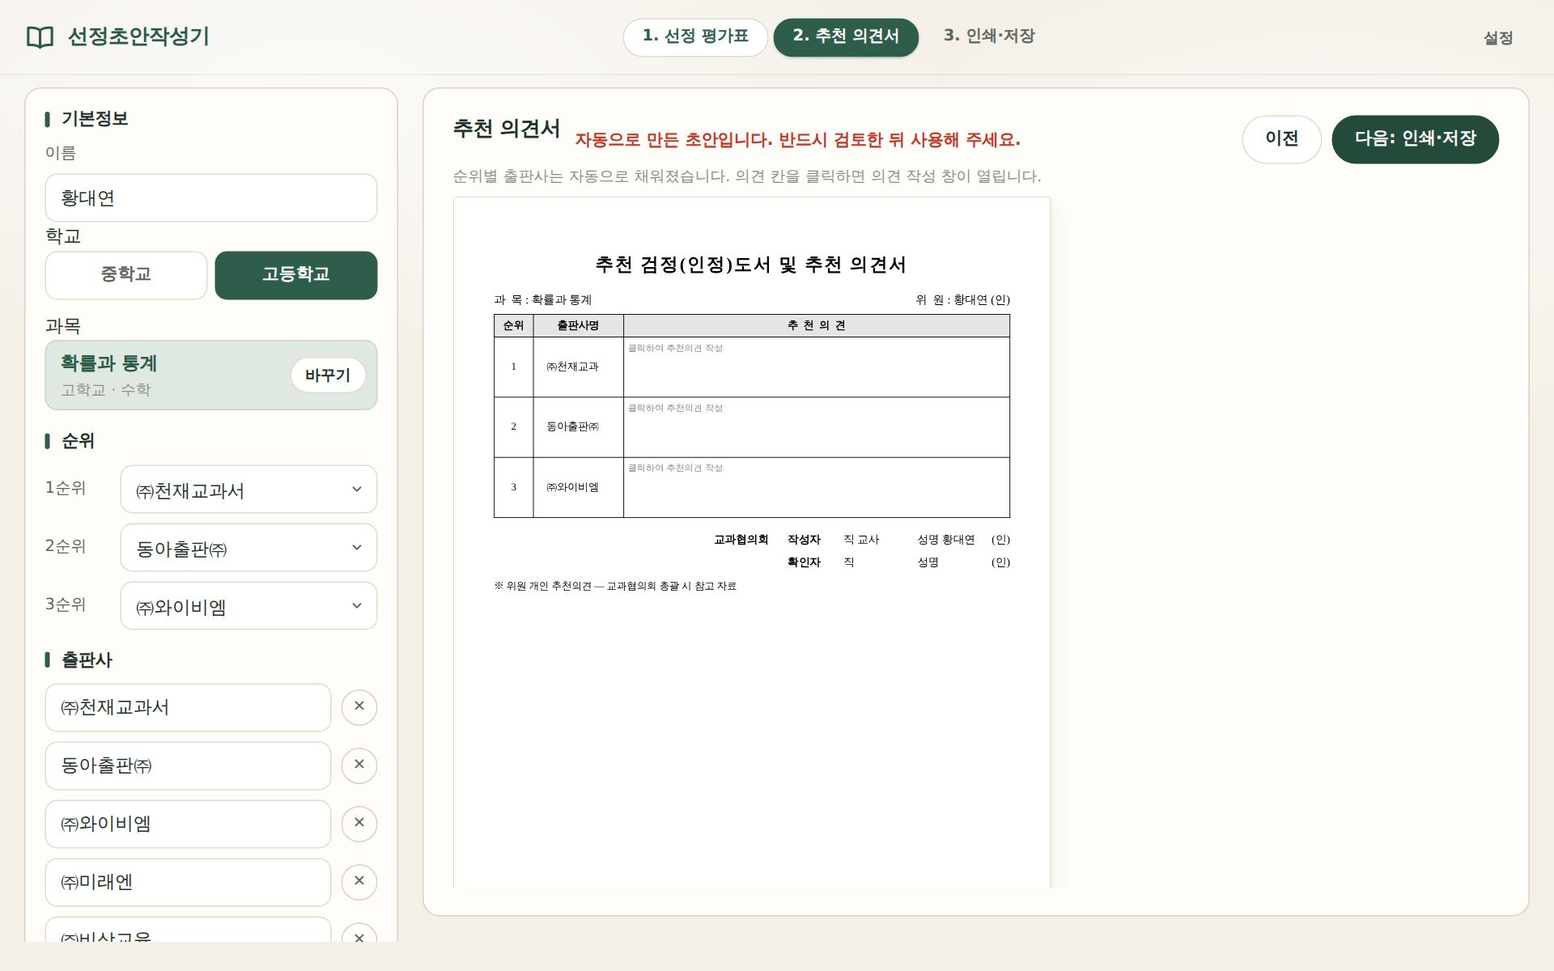
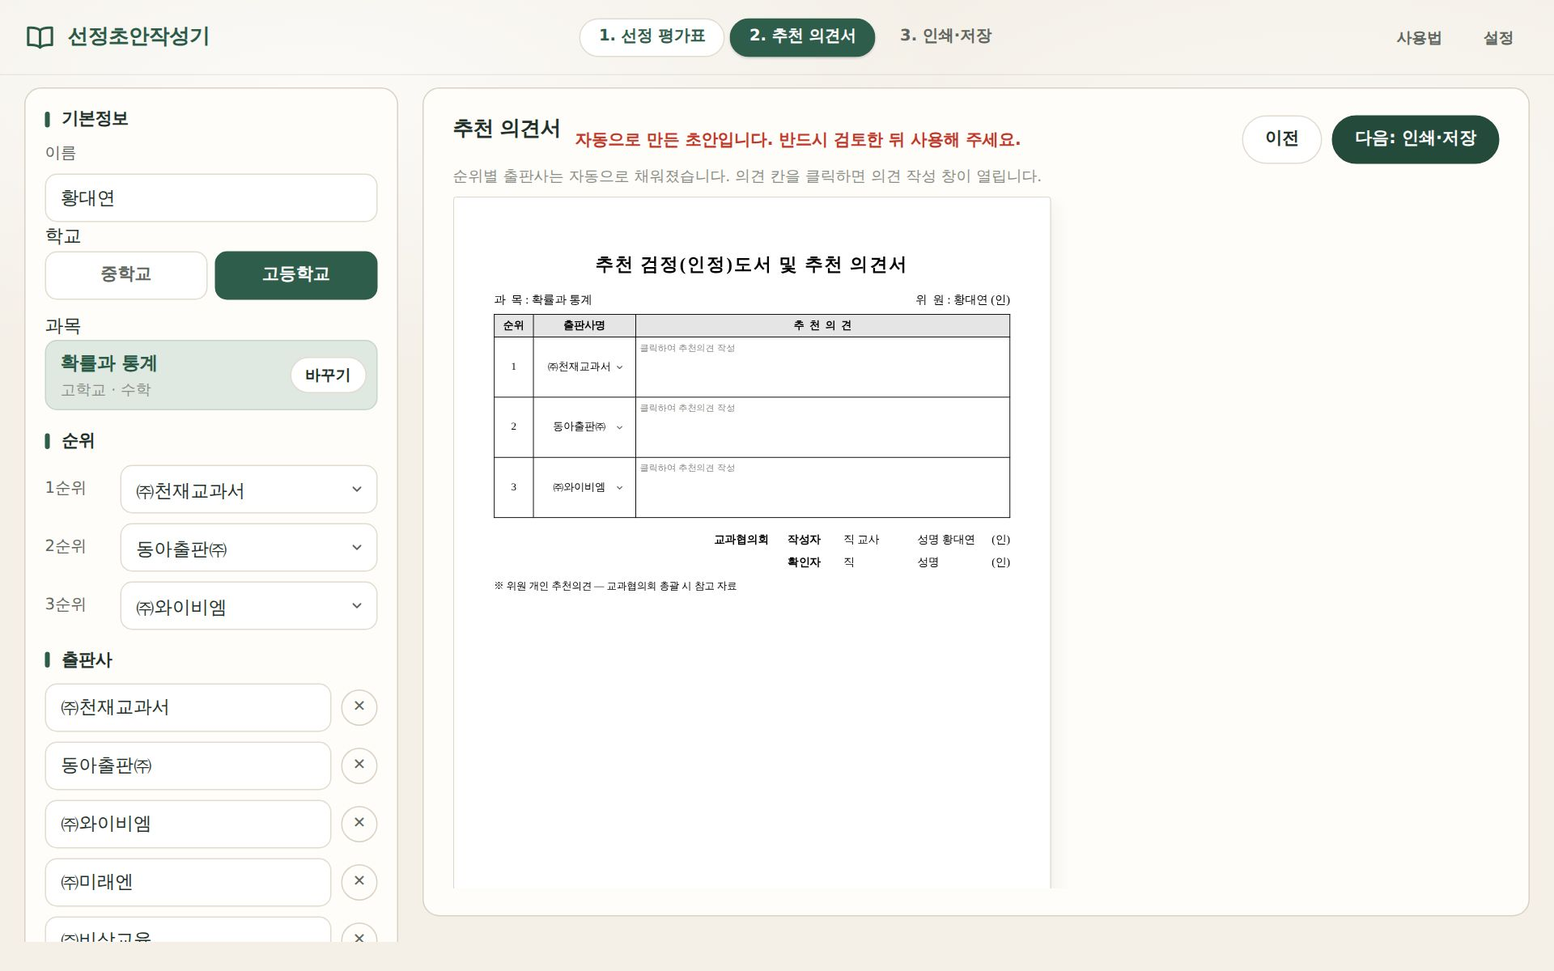
인쇄 단추 하나로 두 서식 저장 · 출판사명 잘림 수정 · 단추 색 구분
1. 서식3 출판사명이 인쇄에서 잘리던 문제
   고르는 칸(select)은 이름이 길어도 줄바꿈이 되지 않아 '㈔한국교과서협회(전북교육청)'
   같은 이름이 잘려 인쇄됐다. 인쇄에는 고르는 칸 대신 글자를 내보내고,
   서식 칸 전체에 overflow-wrap 을 두어 긴 이름이 칸 안에서 줄바꿈되게 했다.
   출판사명 열도 120 → 136px 로 넓혔다.

2. [평가표 인쇄]·[추천 의견서 인쇄] 두 단추를 [인쇄 · PDF 저장] 하나로 합쳤다.
   누르면 인쇄 창이 두 번 열려(앞 창을 닫으면 다음 창) 평가표와 의견서를
   여전히 각각 저장한다. 총괄표 화면도 같다.

3. 인쇄 단추에 프린터 아이콘을 넣었다.

4. 의견 창의 [의견 생성]을 다른 색 계열(갈금색)로 바꿔 [적용]과 구분했다.

사용법 캐러셀의 인쇄 안내와 화면 사진도 새 흐름에 맞춰 다시 만들었다.

Claude-Session: https://claude.ai/code/session_01RCs1Brw9A4HvY1UdBXHbwC

diff --git a/src/pages/Personal.tsx b/src/pages/Personal.tsx
@@ -5,13 +5,14 @@ import { fmtDate, useAppData } from '../store/useAppData'
 import { lsGet, lsSet } from '../store/storage'
 import { buildDraftScores, checkScoreEdit, criteriaFor, publishersFor } from '../lib/scoring'
 import { downloadText, readFileText } from '../lib/csv'
-import { printSheets } from '../lib/print'
+import { printSheetsInTurn } from '../lib/print'
 import { SubjectSearch } from '../components/SubjectSearch'
 import { Form1Sheet } from '../components/Form1Sheet'
 import { Form3Sheet } from '../components/Form3Sheet'
 import { OpinionModal } from '../components/OpinionModal'
 import { HeaderSlot } from '../components/HeaderSlot'
 import { SheetFit } from '../components/SheetFit'
+import { PrinterIcon } from '../components/Icons'
 import { NoticeModal } from '../components/NoticeModal'
 
 const STEPS = ['선정 평가표', '추천 의견서', '인쇄·저장']
@@ -239,21 +240,24 @@ export function Personal({ go }: { go: (h: string) => void }) {
    * 인쇄 전에 책임·검토를 한 번 짚어 준다.
    * 평가표와 추천 의견서는 따로 저장한다 — 총괄 선생님이 위원들의 평가표만 모아 올리기 쉽도록.
    */
-  const askPrint = (kind: 'form1' | 'form3') => {
+  const askPrint = () => {
     if (!ev) return
-    const what = kind === 'form1' ? '선정 평가표' : '추천 의견서'
     setNotice({
-      title: `${what}를 인쇄하기 전에 확인해 주세요`,
+      title: '인쇄하기 전에 확인해 주세요',
       tone: 'info',
       lines: [
         '이 서류의 최종 책임은 작성자 본인에게 있습니다.',
         '자동으로 만든 초안입니다. 점수와 문장이 실제 검토 결과와 맞는지 반드시 확인하고 고친 뒤 제출해 주세요.',
         '이름 · 과목 · 출판사 · 순위가 맞는지 다시 한 번 살펴 주세요.',
+        '인쇄 창이 두 번 열립니다. 먼저 선정 평가표(가로 1쪽), 이어서 추천 의견서(세로 1쪽)를 각각 저장해 주세요.',
       ],
       confirmLabel: '확인했습니다, 인쇄',
       onConfirm: () => {
         setNotice(null)
-        printSheets(`.form-sheet.${kind}`, `${what}_${ev.subjectName}_${ev.teacherName}`)
+        void printSheetsInTurn([
+          { selector: '.form-sheet.form1', title: `선정 평가표_${ev.subjectName}_${ev.teacherName}` },
+          { selector: '.form-sheet.form3', title: `추천 의견서_${ev.subjectName}_${ev.teacherName}` },
+        ])
       },
     })
   }
@@ -529,18 +533,15 @@ export function Personal({ go }: { go: (h: string) => void }) {
                   <button className="btn" onClick={() => setStep(1)}>
                     이전
                   </button>
-                  <button className="btn primary" onClick={() => askPrint('form1')}>
-                    평가표 인쇄·PDF
-                  </button>
-                  <button className="btn primary" onClick={() => askPrint('form3')}>
-                    추천 의견서 인쇄·PDF
+                  <button className="btn primary" onClick={askPrint}>
+                    <PrinterIcon /> 인쇄 · PDF 저장
                   </button>
                   <button className="btn" onClick={exportJson}>
                     JSON 내보내기
                   </button>
                 </div>
               </div>
-              <p className="muted small">여기서도 점수 칸과 의견 칸을 바로 고칠 수 있습니다. 평가표(가로)와 추천 의견서(세로)는 각각 저장합니다 — 인쇄 창에서 대상을 'PDF로 저장'으로 고르면 총괄 선생님께 보낼 파일이 됩니다.</p>
+              <p className="muted small">여기서도 점수 칸과 의견 칸을 바로 고칠 수 있습니다. [인쇄 · PDF 저장]을 누르면 인쇄 창이 두 번 열려 <b>선정 평가표(가로 1쪽)</b>와 <b>추천 의견서(세로 1쪽)</b>를 각각 저장합니다 — 인쇄 창에서 대상을 'PDF로 저장'으로 고르면 총괄 선생님께 보낼 파일이 됩니다.</p>
               <div className="sheet-wrap">
                 <SheetFit fitHeight={false} minScale={0.5}>
                 <Form1Sheet

diff --git a/src/pages/Compile.tsx b/src/pages/Compile.tsx
@@ -5,7 +5,7 @@ import { fmtDate, useAppData } from '../store/useAppData'
 import { lsGet, lsSet } from '../store/storage'
 import { columnTotal, computeSummary, criteriaFor } from '../lib/scoring'
 import { downloadText, readFileText } from '../lib/csv'
-import { printSheets } from '../lib/print'
+import { printSheetsInTurn } from '../lib/print'
 import { importMemberFiles, squeezeName, type ImportProgress } from '../lib/pdfImport'
 import { SubjectSearch } from '../components/SubjectSearch'
 import { Form1Sheet } from '../components/Form1Sheet'
@@ -14,6 +14,7 @@ import { Form3Sheet } from '../components/Form3Sheet'
 import { OpinionModal } from '../components/OpinionModal'
 import { HeaderSlot } from '../components/HeaderSlot'
 import { SheetFit } from '../components/SheetFit'
+import { PrinterIcon } from '../components/Icons'
 import { NoticeModal } from '../components/NoticeModal'
 
 const STEPS = ['점수표 올리기', '총괄표 확인', '인쇄·저장']
@@ -103,22 +104,25 @@ export function Compile({ go }: { go: (h: string) => void }) {
     })
   }
 
-  /** 인쇄 전에 책임·검토를 한 번 짚어 준다. 총괄표와 추천 의견서는 따로 저장한다 */
-  const askPrint = (kind: 'form2' | 'form3') => {
+  /** 인쇄 전에 책임·검토를 한 번 짚어 준다. 총괄표와 추천 의견서는 차례로 따로 저장한다 */
+  const askPrint = () => {
     if (!sum) return
-    const what = kind === 'form2' ? '평가 총괄표' : '추천 의견서'
     setNotice({
-      title: `${what}를 인쇄하기 전에 확인해 주세요`,
+      title: '인쇄하기 전에 확인해 주세요',
       tone: 'info',
       lines: [
         '이 서류의 최종 책임은 작성자 본인에게 있습니다.',
         '위원들이 올린 평가표에서 자동으로 계산한 초안입니다. 총점 · 평균 · 순위를 원본과 대조한 뒤 제출해 주세요.',
         '위원 이름과 출판사명이 바르게 들어갔는지 다시 한 번 살펴 주세요.',
+        '인쇄 창이 두 번 열립니다. 먼저 평가 총괄표, 이어서 추천 의견서를 각각 저장해 주세요.',
       ],
       confirmLabel: '확인했습니다, 인쇄',
       onConfirm: () => {
         setNotice(null)
-        printSheets(`.form-sheet.${kind}`, `${what}_${sum.subjectName}`)
+        void printSheetsInTurn([
+          { selector: '.form-sheet.form2', title: `평가 총괄표_${sum.subjectName}` },
+          { selector: '.form-sheet.form3', title: `추천 의견서_${sum.subjectName}` },
+        ])
       },
     })
   }
@@ -643,18 +647,15 @@ export function Compile({ go }: { go: (h: string) => void }) {
                   <button className="btn" onClick={() => setStep(1)}>
                     이전
                   </button>
-                  <button className="btn primary" onClick={() => askPrint('form2')}>
-                    총괄표 인쇄·PDF
-                  </button>
-                  <button className="btn primary" onClick={() => askPrint('form3')}>
-                    추천 의견서 인쇄·PDF
+                  <button className="btn primary" onClick={askPrint}>
+                    <PrinterIcon /> 인쇄 · PDF 저장
                   </button>
                   <button className="btn" onClick={exportJson}>
                     JSON 내보내기
                   </button>
                 </div>
               </div>
-              <p className="muted small">여기서도 점수 칸과 의견 칸을 바로 고칠 수 있습니다. 총괄표와 추천 의견서는 각각 저장합니다.</p>
+              <p className="muted small">여기서도 점수 칸과 의견 칸을 바로 고칠 수 있습니다. [인쇄 · PDF 저장]을 누르면 인쇄 창이 두 번 열려 <b>평가 총괄표</b>와 <b>추천 의견서</b>를 각각 저장합니다.</p>
               <div className="sheet-wrap">
                 <SheetFit fitHeight={false} minScale={0.5}>
                 <Form2Sheet

diff --git a/src/lib/print.ts b/src/lib/print.ts
@@ -1,30 +1,59 @@
 /**
  * 화면에 있는 서식 중 일부만 골라 인쇄한다.
  * 가로(서식1)와 세로(서식2·3)를 한 번에 섞어 인쇄하면 브라우저에 따라 빈 페이지가 끼거나
- * 축소되는 일이 있어, 방향이 같은 서식끼리 따로 인쇄할 수 있게 한다.
- * @param selector 인쇄할 서식 선택자. 비우면 모든 서식.
- * @param title 인쇄 중 문서 제목. 브라우저 'PDF로 저장' 기본 파일명이 된다.
+ * 축소되는 일이 있어, 방향이 같은 서식끼리 따로 인쇄한다.
  */
+
+export interface PrintJob {
+  /** 인쇄할 서식 선택자 */
+  selector: string
+  /** 인쇄 중 문서 제목. 브라우저 'PDF로 저장' 기본 파일명이 된다 */
+  title: string
+}
+
+function printOne(selector?: string, title?: string): Promise<void> {
+  return new Promise((resolve) => {
+    const all = Array.from(document.querySelectorAll<HTMLElement>('.form-sheet'))
+    const targets = selector ? Array.from(document.querySelectorAll<HTMLElement>(selector)) : all
+    if (!targets.length) return resolve()
+    all.forEach((el) => el.classList.toggle('print-skip', !targets.includes(el)))
+
+    const prevTitle = document.title
+    if (title) document.title = title.replace(/[\\/:*?"<>|]/g, ' ').trim()
+
+    let done = false
+    let guard = 0
+    const cleanup = () => {
+      if (done) return
+      done = true
+      all.forEach((el) => el.classList.remove('print-skip'))
+      document.title = prevTitle
+      window.removeEventListener('afterprint', cleanup)
+      window.clearTimeout(guard)
+      resolve()
+    }
+    window.addEventListener('afterprint', cleanup)
+    // afterprint 가 오지 않는 환경 대비
+    guard = window.setTimeout(cleanup, 120000)
+    // 클래스 반영 후 인쇄 대화상자
+    window.setTimeout(() => window.print(), 60)
+  })
+}
+
+/** 서식 하나만 인쇄한다 */
 export function printSheets(selector?: string, title?: string): void {
-  const all = Array.from(document.querySelectorAll<HTMLElement>('.form-sheet'))
-  const targets = selector ? Array.from(document.querySelectorAll<HTMLElement>(selector)) : all
-  if (!targets.length) return
-  all.forEach((el) => el.classList.toggle('print-skip', !targets.includes(el)))
+  void printOne(selector, title)
+}
 
-  const prevTitle = document.title
-  if (title) document.title = title.replace(/[\\/:*?"<>|]/g, ' ').trim()
-
-  let done = false
-  const cleanup = () => {
-    if (done) return
-    done = true
-    all.forEach((el) => el.classList.remove('print-skip'))
-    document.title = prevTitle
-    window.removeEventListener('afterprint', cleanup)
+/**
+ * 서식을 하나씩 차례로 인쇄한다.
+ * 앞 서식의 인쇄 창을 닫으면 다음 서식의 인쇄 창이 이어서 열려,
+ * 단추 하나로 평가표 파일과 추천 의견서 파일을 각각 저장할 수 있다.
+ */
+export async function printSheetsInTurn(jobs: PrintJob[]): Promise<void> {
+  for (const job of jobs) {
+    await printOne(job.selector, job.title)
+    // 인쇄 창이 겹쳐 열리지 않도록 잠깐 쉰다
+    await new Promise((r) => window.setTimeout(r, 350))
   }
-  window.addEventListener('afterprint', cleanup)
-  // 클래스 반영 후 인쇄 대화상자
-  window.setTimeout(() => window.print(), 60)
-  // afterprint 가 오지 않는 환경 대비
-  window.setTimeout(cleanup, 120000)
 }

diff --git a/src/pages/Guide.tsx b/src/pages/Guide.tsx
@@ -155,15 +155,15 @@ const SLIDES: Slide[] = [
     id: 'print',
     section: '서류 초안 작성하기',
     step: '8단계',
-    title: '평가표와 의견서를 따로따로 저장합니다',
-    lead: '마지막 [인쇄·저장] 단계에서 두 버튼이 나옵니다. 총괄 선생님께 보낼 파일이 서식별로 깔끔하게 나뉩니다.',
+    title: '[인쇄 · PDF 저장] 한 번으로 두 서류를 저장합니다',
+    lead: '마지막 [인쇄·저장] 단계에서 단추를 누르면 인쇄 창이 두 번 열립니다. 총괄 선생님께 보낼 파일이 서식별로 깔끔하게 나뉩니다.',
     points: [
-      '[평가표 인쇄·PDF] → 가로 1쪽.',
-      '[추천 의견서 인쇄·PDF] → 세로 1쪽.',
-      "인쇄 창에서 프린터를 'PDF로 저장' 으로 고르면 파일이 됩니다.",
+      '첫 번째 창 — 선정 평가표(가로 1쪽).',
+      '두 번째 창 — 추천 의견서(세로 1쪽).',
+      "각 창에서 프린터를 'PDF로 저장' 으로 고르면 파일 두 개가 됩니다.",
       '이 화면에서도 점수·의견을 그대로 고칠 수 있습니다.',
     ],
-    tip: '빈 페이지 없이 딱 한 쪽씩 나옵니다.',
+    tip: '빈 페이지 없이 딱 한 쪽씩 나옵니다. 첫 창을 닫으면 두 번째 창이 이어서 열립니다.',
     img: '08-print.jpg',
     alt: '평가표 인쇄와 추천 의견서 인쇄 버튼이 있는 인쇄·저장 화면',
   },
@@ -173,7 +173,12 @@ const SLIDES: Slide[] = [
     step: '9단계',
     title: '인쇄 전 마지막 확인',
     lead: '인쇄를 누르면 확인 창이 한 번 뜹니다. 제출 전에 꼭 짚어야 할 것을 알려 줍니다.',
-    points: ['이 서류의 최종 책임은 작성자 본인에게 있습니다.', '자동으로 만든 초안이므로 점수와 문장을 확인한 뒤 제출합니다.', '이름·과목·발행사·순위가 맞는지 다시 봅니다.'],
+    points: [
+      '이 서류의 최종 책임은 작성자 본인에게 있습니다.',
+      '자동으로 만든 초안이므로 점수와 문장을 확인한 뒤 제출합니다.',
+      '이름·과목·발행사·순위가 맞는지 다시 봅니다.',
+      '확인을 누르면 평가표 → 추천 의견서 순으로 인쇄 창이 열립니다.',
+    ],
     img: '09-printnotice.jpg',
     alt: '인쇄 전에 뜨는 확인 안내 창',
   },
@@ -208,7 +213,7 @@ const SLIDES: Slide[] = [
     step: '3단계',
     title: '총괄표를 확인하고 인쇄합니다',
     lead: '위원별 점수, 합계와 평균, 최종 순위가 서식 그대로 계산됩니다.',
-    points: ['숫자 칸은 눌러서 고칠 수 있습니다(총배점을 넘지 않게 막아 줍니다).', '평가총괄표와 추천 의견서를 각각 인쇄·저장합니다.'],
+    points: ['숫자 칸은 눌러서 고칠 수 있습니다(총배점을 넘지 않게 막아 줍니다).', '[인쇄 · PDF 저장] 한 번으로 평가총괄표와 추천 의견서를 각각 저장합니다.'],
     tip: '자동 계산 결과입니다. 인쇄 전에 원본과 한 번 대조해 주세요.',
     img: '12-compile-sheet.jpg',
     alt: '위원별 점수와 평균, 순위가 계산된 평가총괄표',

diff --git a/src/styles.css b/src/styles.css
@@ -86,6 +86,9 @@ input[type='checkbox'] { accent-color: var(--primary); }
 .btn.primary { background: var(--primary); color: var(--primary-ink); border-color: var(--primary); }
 .btn.primary:hover { background: var(--primary-deep); border-color: var(--primary-deep); }
 .btn.soft { background: var(--primary-soft); color: var(--primary); border-color: var(--primary-soft-line); }
+/* 문장을 만드는 단추 — [적용]·[확인] 같은 초록 계열과 확실히 구분되도록 다른 색을 쓴다 */
+.btn.accent { background: #8a5a12; color: #fff; border-color: #8a5a12; }
+.btn.accent:hover { background: #71490d; border-color: #71490d; }
 .btn.soft:hover { background: #d3e1d8; }
 .btn.danger { color: var(--red); border-color: #e6c3bb; }
 .btn.danger:hover { background: var(--red-soft); }
@@ -384,9 +387,12 @@ td.num { text-align: center; }
 .form-sheet .form-head { display: flex; justify-content: space-between; font-size: 11.5pt; margin-bottom: 6px; }
 .form-sheet .form-head .right { text-align: right; }
 .form-sheet table.form { width: 100%; border-collapse: collapse; table-layout: fixed; }
-.form-sheet table.form th, .form-sheet table.form td { border: 1px solid #000; padding: 4px 5px; font-size: 10.5pt; vertical-align: middle; word-break: keep-all; }
+.form-sheet table.form th, .form-sheet table.form td { border: 1px solid #000; padding: 4px 5px; font-size: 10.5pt; vertical-align: middle; word-break: keep-all; overflow-wrap: anywhere; }
 .form-sheet table.form th { background: #e5e5e5; font-weight: 600; text-align: center; }
 .form-sheet table.form td.c { text-align: center; }
+/* 출판사명은 길어서 고르는 칸에 넣으면 인쇄할 때 잘린다. 인쇄에는 글자를 내보낸다 */
+.form-sheet td.pub-cell .pub-print { display: none; }
+.form-sheet td.pub-cell .pub-pick { width: 100%; height: auto; padding: 2px 16px 2px 2px; border: none; background-color: transparent; text-align: center; font-family: inherit; font-size: inherit; color: inherit; }
 .form-sheet table.form td.opinion { height: 80px; vertical-align: top; text-align: left; white-space: pre-wrap; line-height: 1.6; }
 .form-sheet table.form td.opinion.tall { min-height: 110px; }
 .form-sheet .sign-block { margin-top: 18px; display: flex; flex-direction: column; align-items: flex-end; gap: 8px; font-size: 11pt; }
@@ -696,6 +702,9 @@ label.field.rank-row { flex-direction: row; align-items: center; gap: 10px; marg
   .form-sheet.landscape { page: landscape; }
   .form-sheet table.form th { background: #e5e5e5 !important; -webkit-print-color-adjust: exact; print-color-adjust: exact; }
   .form-sheet table.form th, .form-sheet table.form td { font-size: 10pt; }
+  /* 고르는 칸(select)은 이름이 길면 잘리므로 인쇄에는 글자만 내보낸다 */
+  .form-sheet td.pub-cell .pub-pick { display: none !important; }
+  .form-sheet td.pub-cell .pub-print { display: block !important; line-height: 1.35; }
   .form-sheet table.form { break-inside: auto; }
   td.editable:hover { background: inherit; }
 }

diff --git a/src/components/Form3Sheet.tsx b/src/components/Form3Sheet.tsx
@@ -42,7 +42,7 @@ export function Form3Sheet({ subjectName, publishers, rows, writer, checker, var
       <table className="form">
         <colgroup>
           <col style={{ width: 52 }} />
-          <col style={{ width: 120 }} />
+          <col style={{ width: 136 }} />
           <col />
         </colgroup>
         <thead>
@@ -56,22 +56,22 @@ export function Form3Sheet({ subjectName, publishers, rows, writer, checker, var
           {rows.map((r) => (
             <tr key={r.rank}>
               <td className="c">{r.rank}</td>
-              <td className="c">
+              <td className="c pub-cell">
                 {readOnly || !onPubChange ? (
                   pubName(r.pubId)
                 ) : (
-                  <select
-                    value={r.pubId || ''}
-                    onChange={(e) => onPubChange(r.rank, e.target.value)}
-                    style={{ width: '100%', border: 'none', background: 'transparent', textAlign: 'center', fontFamily: 'inherit', fontSize: 'inherit' }}
-                  >
-                    <option value="">-</option>
-                    {publishers.map((p) => (
-                      <option key={p.id} value={p.id}>
-                        {p.name}
-                      </option>
-                    ))}
-                  </select>
+                  <>
+                    {/* 고르는 칸은 이름이 길면 잘려 인쇄된다. 인쇄할 때는 아래 글자만 나온다 */}
+                    <span className="pub-print">{pubName(r.pubId)}</span>
+                    <select className="pub-pick" value={r.pubId || ''} onChange={(e) => onPubChange(r.rank, e.target.value)}>
+                      <option value="">-</option>
+                      {publishers.map((p) => (
+                        <option key={p.id} value={p.id}>
+                          {p.name}
+                        </option>
+                      ))}
+                    </select>
+                  </>
                 )}
               </td>
               <TextCell

diff --git a/src/components/Icons.tsx b/src/components/Icons.tsx
@@ -1,0 +1,13 @@
+/** 서류·인쇄 관련 작은 아이콘 모음 */
+
+/** 프린터 */
+export function PrinterIcon() {
+  return (
+    <svg viewBox="0 0 24 24" width="17" height="17" fill="none" stroke="currentColor" strokeWidth="1.9" strokeLinecap="round" strokeLinejoin="round" aria-hidden="true">
+      <path d="M6 9V3.5h12V9" />
+      <path d="M6 18H4.5A1.5 1.5 0 0 1 3 16.5v-5A1.5 1.5 0 0 1 4.5 10h15a1.5 1.5 0 0 1 1.5 1.5v5a1.5 1.5 0 0 1-1.5 1.5H18" />
+      <rect x="6" y="14" width="12" height="6.5" rx="1" />
+      <path d="M17.5 12.5h.01" />
+    </svg>
+  )
+}

diff --git a/src/components/OpinionModal.tsx b/src/components/OpinionModal.tsx
@@ -154,7 +154,7 @@ export function OpinionModal({
                   ))}
                 </select>
               )}
-              <button className="btn primary" onClick={generate} disabled={busy || !!notice}>
+              <button className="btn accent" onClick={generate} disabled={busy || !!notice}>
                 {busy ? '생성 중…' : text ? '다시 생성' : '의견 생성'}
               </button>
             </div>

diff --git a/README.md b/README.md
@@ -34,7 +34,7 @@
 
 | 화면 | 내용 |
 |---|---|
-| 서류 작성 | ① 중/고 선택 → 과목 검색(초성도 됨) → 출판사 자동 → 순위를 넣으면 선정 평가표가 바로 생성(셀 편집, 배점 초과·순위 뒤바뀜 차단) → ② 추천 의견서 → ③ 평가표·추천 의견서를 **각각** 인쇄·PDF 저장(이 단계에서도 편집 가능) |
+| 서류 작성 | ① 중/고 선택 → 과목 검색(초성도 됨) → 출판사 자동 → 순위를 넣으면 선정 평가표가 바로 생성(셀 편집, 배점 초과·순위 뒤바뀜 차단) → ② 추천 의견서 → ③ [인쇄 · PDF 저장] 한 번에 인쇄 창이 두 번 열려 평가표(가로 1쪽)·추천 의견서(세로 1쪽)를 **각각** 저장(이 단계에서도 편집 가능) |
 | 총괄표 | ① 작성자·과목 입력 + 위원 PDF·JSON 올리기 → [총괄표 생성하기] → ② 평가 총괄표·추천 의견서 확인·편집 → ③ 인쇄·PDF·JSON 저장 |
 | 설정 | 교과서 자료 현황·다시 불러오기, 선정 과목 관리(목록 붙여넣기·CSV·개별 추가/수정/삭제), 과목별 출판사 관리, 평가기준 |
 | 사용 설명 (`#/guide`) | 실제 화면 사진으로 만든 16장짜리 안내 캐러셀. 첫 화면의 [1분 사용법 보기], 위쪽 [사용법] 단추로 들어갑니다. 사진은 `public/guide/*.jpg` 이며 `scripts` 없이 앱에서 그대로 읽습니다 |
